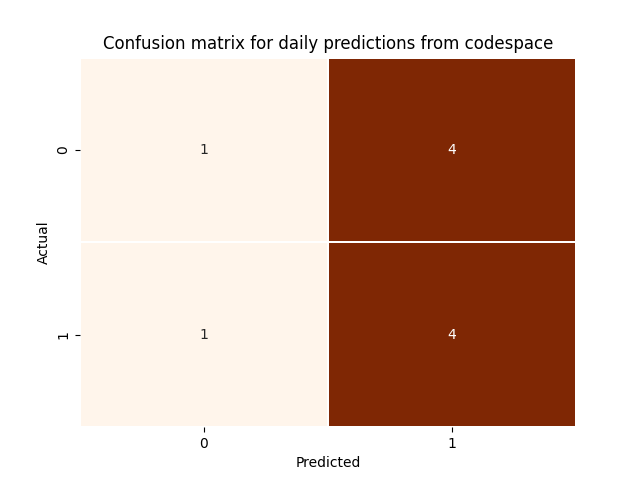
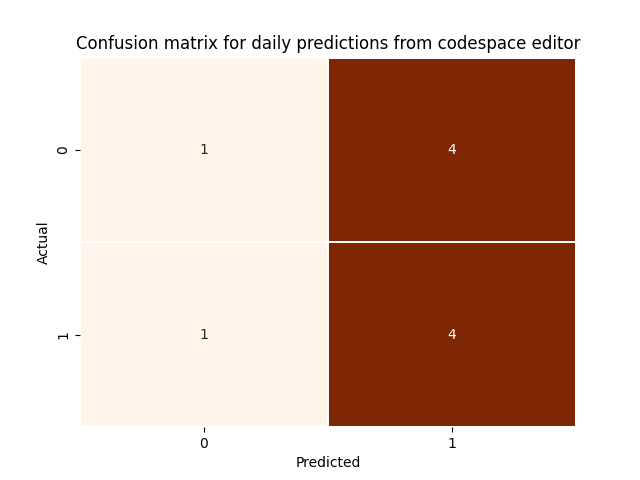
during beer

Changed region(s): [[0.125, 0.0625, 0.9062, 0.125]]

diff --git a/codespace_trials.py b/codespace_trials.py
@@ -82,7 +82,7 @@ y_labs=tmp.index.to_list()
 fig=sns.heatmap(tmp, cmap='Oranges', xticklabels=x_labs, yticklabels=y_labs, **kwargs, fmt='g')
 fig.set_ylabel('Actual')
 fig.set_xlabel('Predicted')
-fig.title.set_text('Confusion matrix for daily predictions from codespace')
+fig.title.set_text('Confusion matrix for daily predictions from codespace editor')
 print("preds_actuals_confusion_matrix created")
 path='images/test4.png'
 plt.savefig(path)
